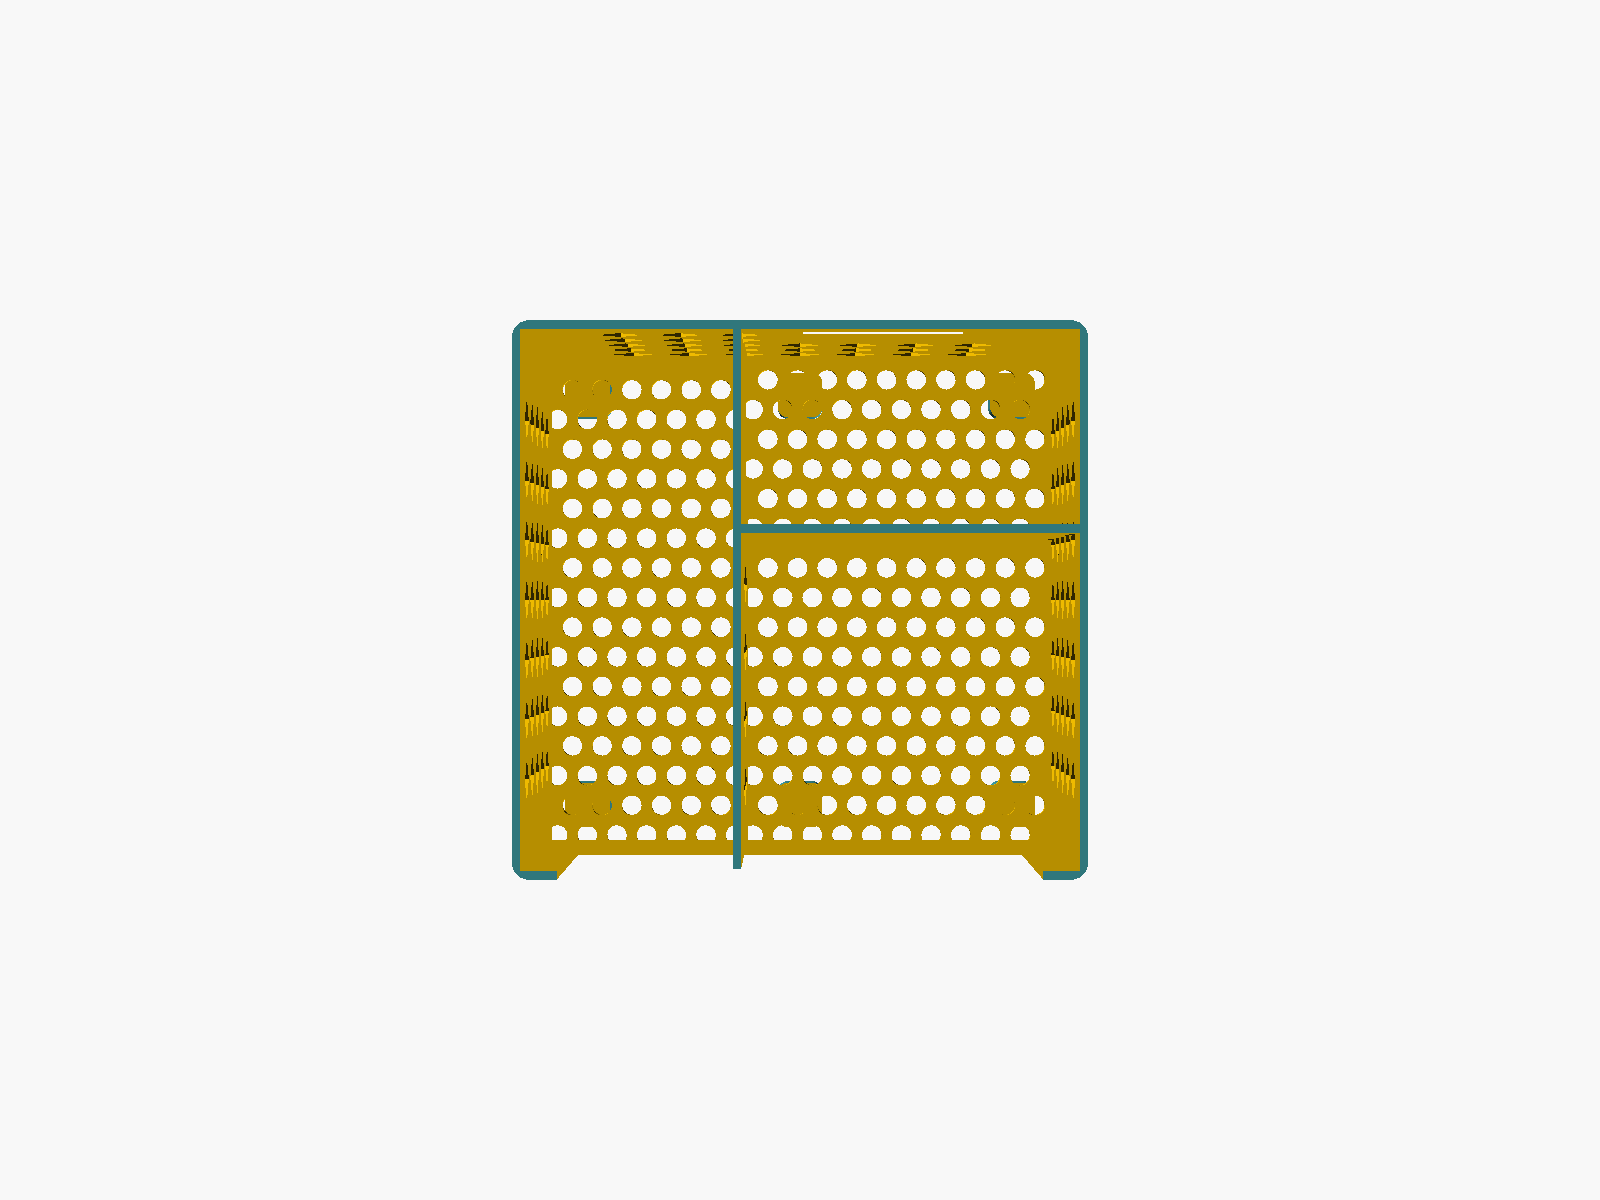
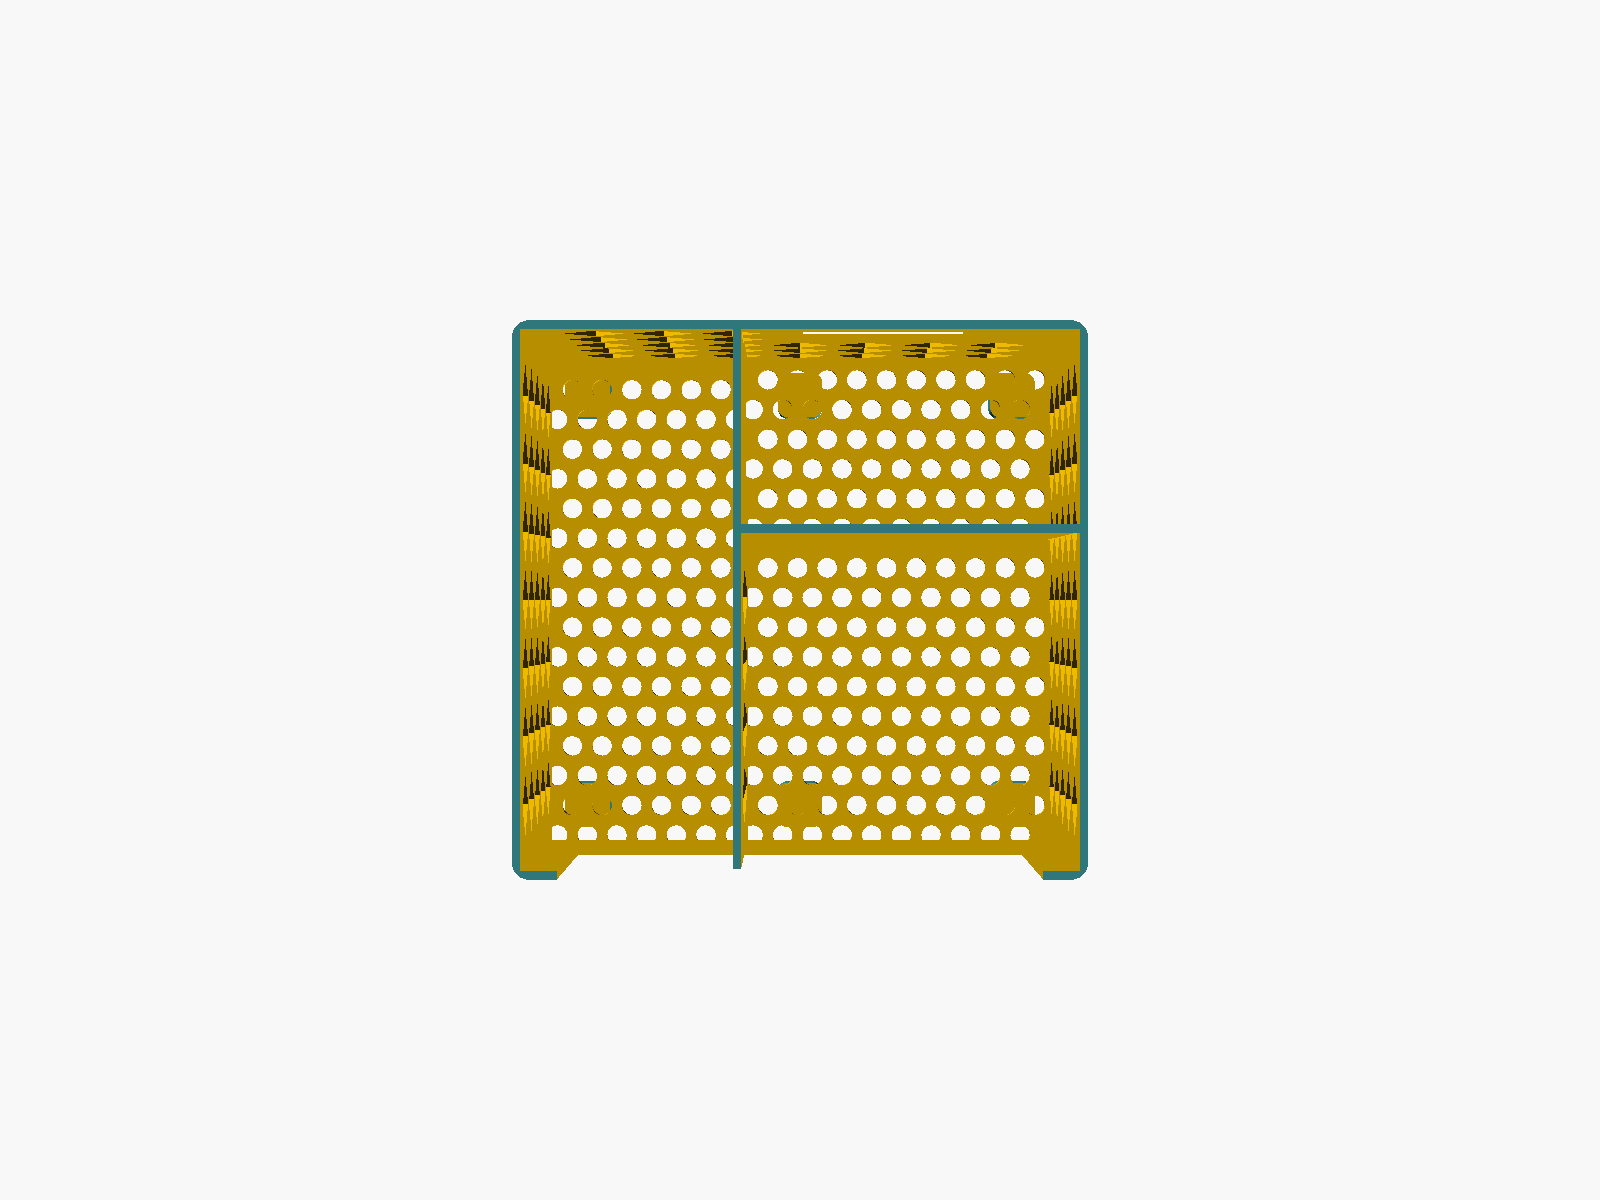
v2.7: tune wall vents to a diagonal lattice/trellis
Thin 45-degree ribs with larger diamond openings and fuller wall coverage
(d=22, strut=3) so the walls read as a lattice rather than a field of
diamond holes. STL re-exported at $fn=64.

diff --git a/README.md b/README.md
@@ -56,8 +56,8 @@ cable/port access and heat relief.
 - Hex-staggered perforated **floor** under every bay.
 - **12 mm raised feet** → an open air gap under the whole caddy so air enters
   from below and rises through the floor holes and open tops.
-- **Diamond-lattice vents** across the side, back, and divider walls (diamonds
-  self-support at 45° so they print without bridging).
+- **Diagonal lattice/trellis vents** across the side, back, and divider walls
+  (thin 45° ribs, self-supporting so they print without bridging).
 - **Open tops**; towers stand exposed above the shell line.
 
 ## Cable input + storage + router orientation
@@ -103,9 +103,10 @@ storage depth, vent + cable-notch sizing). Change one and re-run `just build`.
 
 ## Versions
 
-- **v2.6** — wall vents restyled from vertical slots to a **diamond lattice**
+- **v2.7** — wall vents tuned to a **diagonal lattice/trellis** (thin 45° ribs,
+  larger openings, fuller wall coverage). ![back](images/caddy-back.png)
+- **v2.6** — wall vents restyled from vertical slots to a diamond pattern
   (outer walls + dividers); floor stays hex, cable window keeps its clean border.
-  ![back](images/caddy-back.png)
 - **v2.5** — restored the back vent slots and shifted the cable window onto the
   slot grid so it keeps ~8 mm wall on each side (removed the thin sliver without
   deleting any slits). *(slots later replaced by diamonds in v2.6.)*